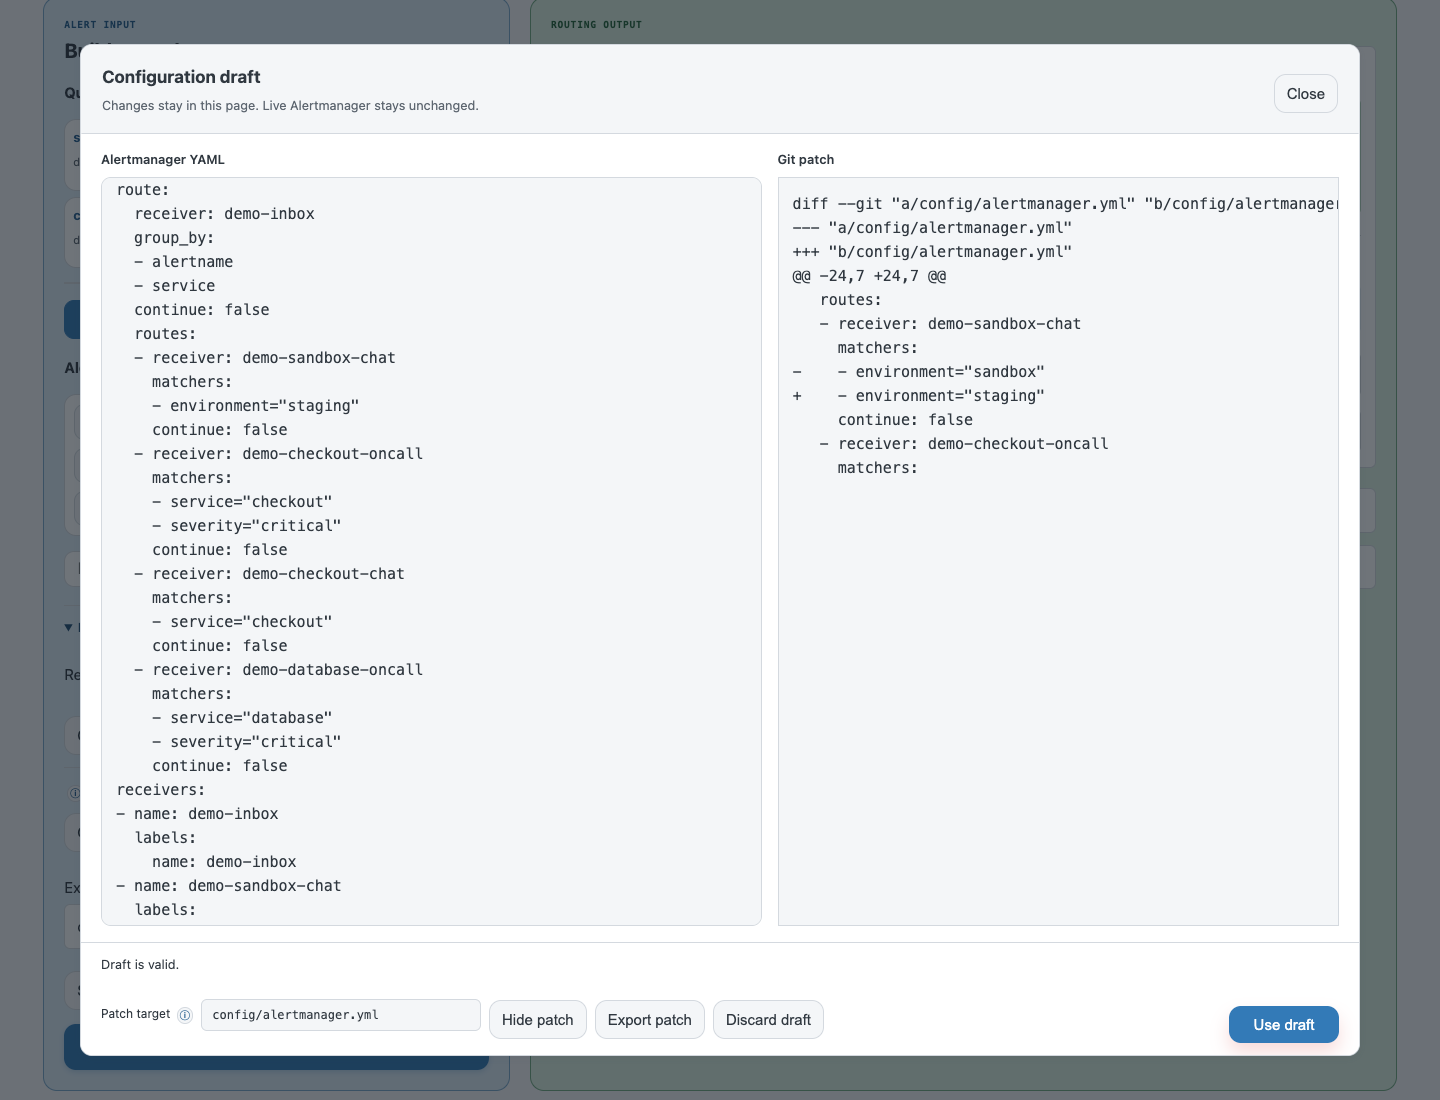
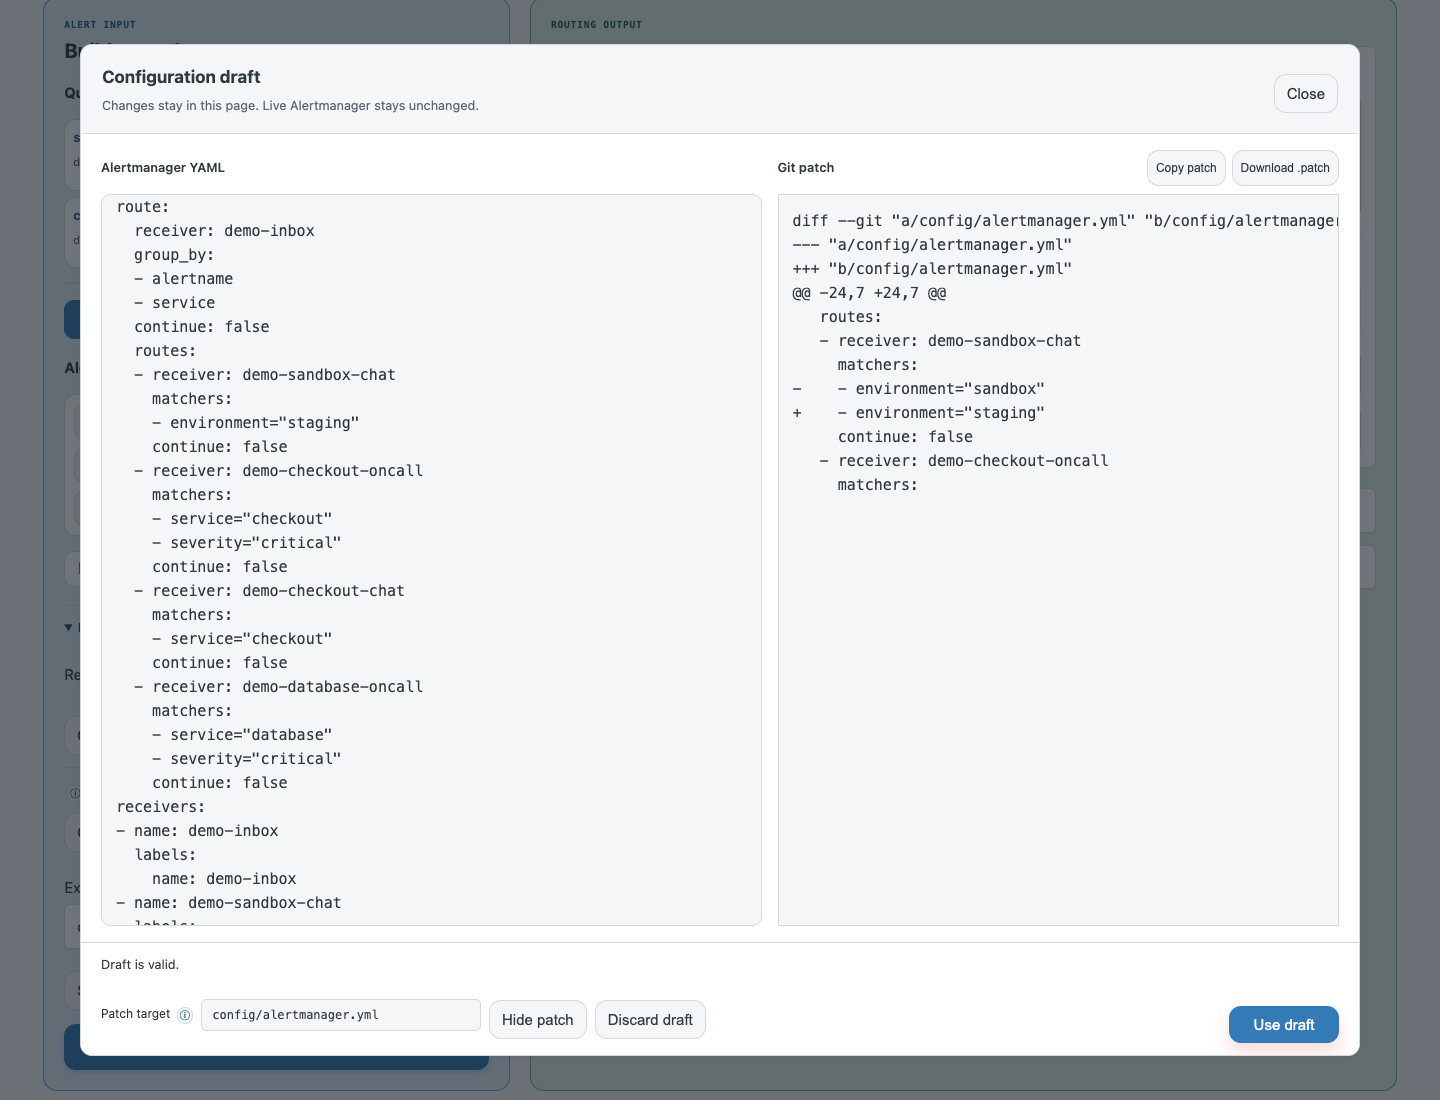
fix(ui): preview patches before copy and download
AI-generated content prepared on Will's behalf.

Separate patch viewing from clipboard and file actions. Update the synthetic screenshot and browser checks.

diff --git a/templates/index.html b/templates/index.html
@@ -186,7 +186,7 @@ team: platform'></textarea>
                         <span class="help-tip" role="img" data-tooltip="Edit a copy of the loaded configuration and test it. Live Alertmanager stays unchanged. Drafts are not saved." aria-label="Configuration draft help: Edit a copy of the loaded configuration and test it. Live Alertmanager stays unchanged. Drafts are not saved." tabindex="0">ⓘ</span>
                         <div id="draft-panel" hidden>
                             <button id="edit-draft" type="button" class="btn-secondary" onclick="openDraftEditor()">Open draft editor</button>
-                            <button id="export-draft" type="button" class="btn-secondary" onclick="exportDraftPatch()" disabled>Export patch</button>
+                            <button id="view-draft-patch" type="button" class="btn-secondary" onclick="showDraftPatch()" disabled>View patch</button>
                             <span class="draft-active-label">Draft active</span>
                         </div>
                     </section>
@@ -240,8 +240,14 @@ team: platform'></textarea>
                 <textarea id="config-draft" rows="24" wrap="off" spellcheck="false" autocapitalize="off" disabled></textarea>
             </div>
             <section id="draft-diff" class="draft-diff" aria-label="Draft comparison" hidden>
-                <h3>Git patch</h3>
-                <pre id="config-diff" aria-label="Configuration diff" tabindex="0"></pre>
+                <div class="draft-patch-heading">
+                    <h3>Git patch</h3>
+                    <div class="draft-patch-actions">
+                        <button id="copy-patch" type="button" class="btn-secondary" onclick="copyPatch()" title="Copy the displayed patch. It can contain configuration secrets." disabled>Copy patch</button>
+                        <button id="download-patch" type="button" class="btn-secondary" onclick="downloadPatch()" title="Download the displayed patch as a .patch file." disabled>Download .patch</button>
+                    </div>
+                </div>
+                <pre id="config-diff" aria-label="Git patch preview" tabindex="0"></pre>
             </section>
         </div>
         <footer class="draft-editor-footer">
@@ -251,7 +257,6 @@ team: platform'></textarea>
                 <input id="patch-target" type="text" value="alertmanager.yml" spellcheck="false" aria-label="Patch target file">
             </div>
             <button id="preview-draft" type="button" class="btn-secondary" onclick="toggleDraftDiff()">Show patch</button>
-            <button id="export-editor-patch" type="button" class="btn-secondary" onclick="exportDraftPatch()" disabled>Export patch</button>
             <button id="discard-draft" type="button" class="btn-secondary" onclick="discardDraft()">Discard draft</button>
             <button id="use-draft" type="button" class="btn-primary" onclick="closeDraftEditor()" title="Close the editor and use this draft for routing tests.">Use draft</button>
         </footer>
@@ -325,6 +330,8 @@ team: platform'></textarea>
         document.getElementById('raw-input').addEventListener('input', saveEditorState);
 
         let draftBaseline = null;
+        let currentPatch = '';
+        let currentPatchTarget = '';
         let draftNavigationApproved = false;
         const liveReceiverChoices = document.getElementById('target-receiver').cloneNode(true);
 
@@ -349,8 +356,17 @@ team: platform'></textarea>
         }
 
         function hideDraftDiff() {
+            currentPatch = '';
+            currentPatchTarget = '';
             document.getElementById('draft-diff').hidden = true;
             document.getElementById('preview-draft').textContent = 'Show patch';
+            updatePatchControls();
+        }
+
+        async function showDraftPatch() {
+            if (!document.getElementById('draft-editor').open) openDraftEditor();
+            await previewDraft();
+            if (!document.getElementById('draft-diff').hidden) document.getElementById('config-diff').focus();
         }
 
         function toggleDraftDiff() {
@@ -389,11 +405,10 @@ team: platform'></textarea>
 
         function updatePatchControls() {
             const enabled = draftIsEdited() && document.getElementById('patch-target').value.trim() !== '';
-            for (const id of ['export-draft', 'export-editor-patch']) {
-                const button = document.getElementById(id);
-                button.disabled = !enabled;
-                button.title = enabled ? 'Download the patch. It can contain secrets from your edits.' : 'Edit the draft before exporting a patch.';
-            }
+            const view = document.getElementById('view-draft-patch');
+            view.disabled = !enabled;
+            view.title = enabled ? 'View the Git patch. This does not start a download.' : 'Edit the draft to view a patch.';
+            for (const id of ['copy-patch', 'download-patch']) document.getElementById(id).disabled = !enabled || !currentPatch;
         }
 
         async function compareDraft(draft, target) {
@@ -405,28 +420,27 @@ team: platform'></textarea>
             return response.json();
         }
 
-        async function exportDraftPatch() {
-            const draft = document.getElementById('config-draft').value;
-            const target = document.getElementById('patch-target').value.trim();
-            for (const id of ['export-draft', 'export-editor-patch']) document.getElementById(id).disabled = true;
+        async function copyPatch() {
+            if (!currentPatch) return;
             try {
-                const data = await compareDraft(draft, target);
-                if (!data.patch) throw new Error('No draft changes to export.');
-                const url = URL.createObjectURL(new Blob([data.patch], {type: 'text/x-patch;charset=utf-8'}));
-                const link = document.createElement('a');
-                link.href = url;
-                link.download = target.split('/').pop() + '.patch';
-                document.body.appendChild(link);
-                link.click();
-                link.remove();
-                setTimeout(() => URL.revokeObjectURL(url), 1000);
-                setDraftStatus('Patch downloaded.');
+                await copyText(currentPatch);
+                setDraftStatus('Patch copied.');
             } catch (error) {
-                if (!document.getElementById('draft-editor').open) openDraftEditor();
-                setDraftStatus(error.message, true);
-            } finally {
-                updatePatchControls();
+                setDraftStatus('Could not copy patch: ' + error.message, true);
             }
+        }
+
+        function downloadPatch() {
+            if (!currentPatch) return;
+            const url = URL.createObjectURL(new Blob([currentPatch], {type: 'text/x-patch;charset=utf-8'}));
+            const link = document.createElement('a');
+            link.href = url;
+            link.download = currentPatchTarget.split('/').pop() + '.patch';
+            document.body.appendChild(link);
+            link.click();
+            link.remove();
+            setTimeout(() => URL.revokeObjectURL(url), 1000);
+            setDraftStatus('Patch downloaded.');
         }
 
         document.getElementById('patch-target').addEventListener('input', () => {
@@ -436,11 +450,14 @@ team: platform'></textarea>
 
         async function previewDraft() {
             const draft = document.getElementById('config-draft').value;
+            const target = document.getElementById('patch-target').value.trim();
             setDraftStatus('Comparing configurations.');
             try {
-                const data = await compareDraft(draft, document.getElementById('patch-target').value.trim());
-                if (draft !== document.getElementById('config-draft').value || draftBaseline === null) return;
-                document.getElementById('config-diff').textContent = data.patch || 'No changes from the fetched configuration.';
+                const data = await compareDraft(draft, target);
+                if (draft !== document.getElementById('config-draft').value || target !== document.getElementById('patch-target').value.trim() || draftBaseline === null) return;
+                currentPatch = data.patch;
+                currentPatchTarget = target;
+                document.getElementById('config-diff').textContent = currentPatch || 'No changes from the fetched configuration.';
                 document.getElementById('draft-diff').hidden = false;
                 document.getElementById('preview-draft').textContent = 'Hide patch';
                 const receivers = document.getElementById('target-receiver');
@@ -450,6 +467,7 @@ team: platform'></textarea>
                 if (data.receivers.includes(selected)) receivers.value = selected;
                 syncReceiverPicker();
                 setDraftStatus('Draft is valid.');
+                updatePatchControls();
             } catch (error) {
                 document.getElementById('config-diff').textContent = '';
                 hideDraftDiff();
@@ -846,16 +864,17 @@ team: platform'></textarea>
             }
         }
 
-        async function copyShareURL(url) {
+        async function copyText(text) {
             if (navigator.clipboard && window.isSecureContext) {
-                await navigator.clipboard.writeText(url);
+                await navigator.clipboard.writeText(text);
                 return;
             }
             const input = document.createElement('textarea');
-            input.value = url;
+            input.value = text;
             input.style.position = 'fixed';
             input.style.opacity = '0';
-            document.body.appendChild(input);
+            const container = document.querySelector('dialog[open]') || document.body;
+            container.appendChild(input);
             input.select();
             const copied = document.execCommand('copy');
             input.remove();
@@ -869,7 +888,7 @@ team: platform'></textarea>
                 const url = new URL(window.location.href);
                 url.searchParams.delete('alertmanager');
                 url.hash = `labels=${encodeSharedLabels(currentLabels)}`;
-                await copyShareURL(url.toString());
+                await copyText(url.toString());
                 history.replaceState(null, '', url.toString());
                 labelLinkHash = url.hash;
                 setShareStatus('Share link copied. It contains labels only.', false);

diff --git a/static/style.css b/static/style.css
@@ -3633,6 +3633,32 @@ html[data-theme="dark"] .workspace-result-pane {
     display: none;
 }
 
+.draft-patch-heading {
+    display: flex;
+    flex-wrap: wrap;
+    justify-content: space-between;
+    align-items: center;
+    gap: 8px;
+    min-height: 36px;
+}
+
+.draft-patch-actions {
+    display: flex;
+    gap: 6px;
+}
+
+.draft-patch-actions .btn-secondary {
+    margin: 0;
+    padding: 5px 8px;
+    font-size: 0.8rem;
+}
+
+.draft-editor-field > label {
+    display: flex;
+    align-items: center;
+    min-height: 36px;
+}
+
 .draft-diff h3,
 .draft-editor-field label {
     margin: 0;

diff --git a/README.md b/README.md
@@ -12,7 +12,7 @@ Both examples below use fictional alerts and receivers on local services.
 
 ![Fuzzy receiver search and a concise explanation for a blocked checkout alert](docs/screenshots/receiver-search-demo.png)
 
-![Draft editor showing an exportable Git patch with fictional configuration](docs/screenshots/draft-patch-demo.png)
+![Draft editor showing a Git patch preview with copy and download controls](docs/screenshots/draft-patch-demo.png)
 
 ## Usage
 
@@ -31,7 +31,9 @@ Select "Use draft" to return to the label editor. "Test draft" evaluates labels 
 Reloads and instance changes ask before discarding an edited draft.
 
 Set "Patch target" to the configuration path from the repository root.
-Select "Export patch" to download the changes. ART does not write repository files or update live Alertmanager.
+Select "View patch" to open the Git diff without downloading a file.
+Select "Copy patch" to copy its text, or "Download .patch" to save a file.
+ART does not write repository files or update live Alertmanager.
 
 The patch baseline is Alertmanager's sanitized YAML. Comments, formatting, or secret values can differ from your repository file.
 Make sure that the target matches before you apply the patch.
@@ -209,6 +211,8 @@ mise run clean  # cleanup
 To run browser regressions, first run `mise run build` and `mise run setup` with the approved tools installed.
 Then run `bash scripts/run-browser-tests.sh`. The script starts isolated ART and Alertmanager processes on ports 18081 and 19095.
 It requires the installed `agent-browser`, Bash, curl, and lsof. It never installs these tools.
+Browser tests also use Git, Python 3, and Node.js 22 or later.
+Clipboard tests grant browser access only to the loopback test origin.
 Screenshots stay under `/tmp/art-route-ladder-*.png`. Failed runs retain their service logs at the printed local path.
 
 To regenerate the fictional README screenshots, run `bash scripts/run-browser-tests.sh screenshots` after building the application.
